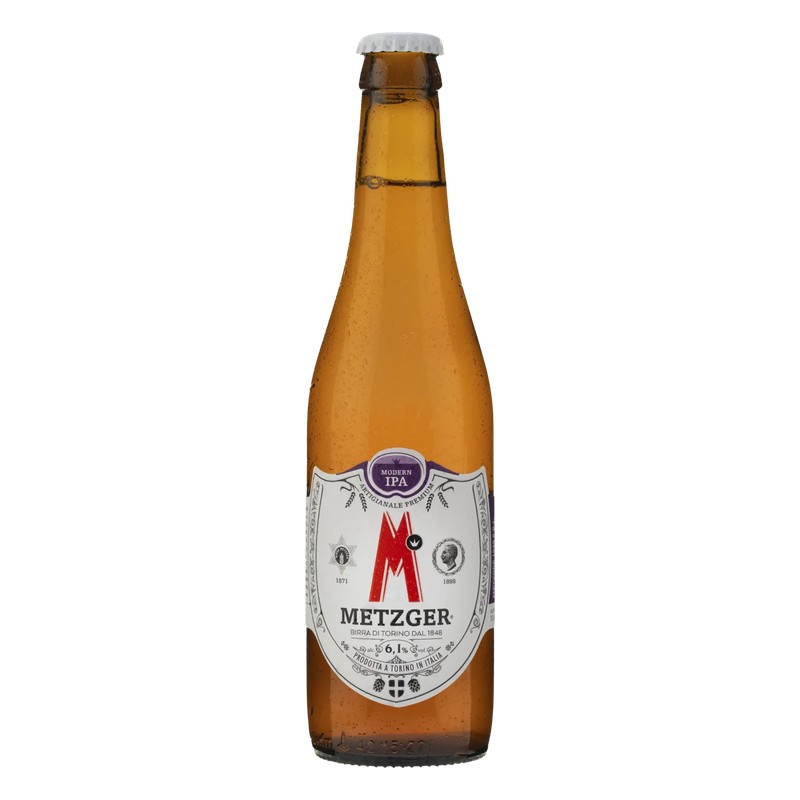
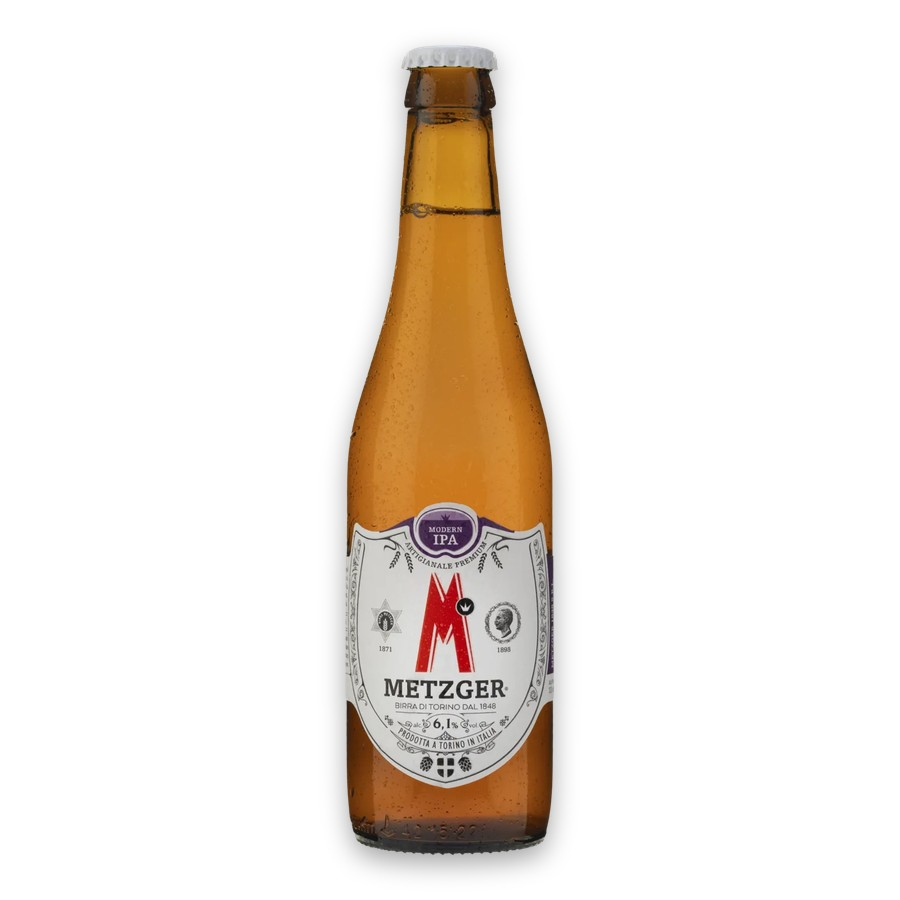
Migliorate foto birre Metzger: crop stretto, ombra leggera, layout dettaglio piu' ampio

Changed region(s): [[0.375, 0.0312, 0.625, 0.9688], [0.4062, 0.2812, 0.4375, 0.4062]]

diff --git a/src/components/menu/ProductModal.tsx b/src/components/menu/ProductModal.tsx
@@ -70,12 +70,12 @@ export const ProductModal = ({ product, onClose, onSelectProduct }: Props) => {
       <DrawerContent className="bg-toret-paper text-toret-ink border-t-0 h-[100dvh] max-h-[100dvh] mt-0 rounded-none p-0 overflow-hidden">
         {product && tr && (
           <div className="mx-auto w-full max-w-[440px] flex flex-col h-[100dvh]">
-            <div className="relative h-[34vh] min-h-[240px] sm:min-h-[300px] shrink-0 bg-toret-cream">
+            <div className="relative h-[42vh] min-h-[280px] sm:min-h-[340px] shrink-0 bg-gradient-to-b from-toret-paper to-toret-cream">
               {product.image ? (
                 <img
                   src={product.image}
                   alt={tr.name}
-                  className="absolute inset-0 h-full w-full object-contain"
+                  className="absolute inset-0 h-full w-full object-contain p-4"
                 />
               ) : (
                 <div className="absolute inset-0 grid place-items-center text-toret-gold-warm">

diff --git a/src/components/menu/ProductCard.tsx b/src/components/menu/ProductCard.tsx
@@ -32,7 +32,7 @@ export const ProductCard = ({ product, onOpen, badge }: Props) => {
             src={product.image}
             alt={tr.name}
             loading="lazy"
-            className="h-full w-full object-contain transition-transform duration-700 group-hover:scale-105"
+            className="h-full w-full object-contain p-1 transition-transform duration-700 group-hover:scale-105"
           />
         ) : (
           <div className="h-full w-full grid place-items-center text-toret-gold-warm">
